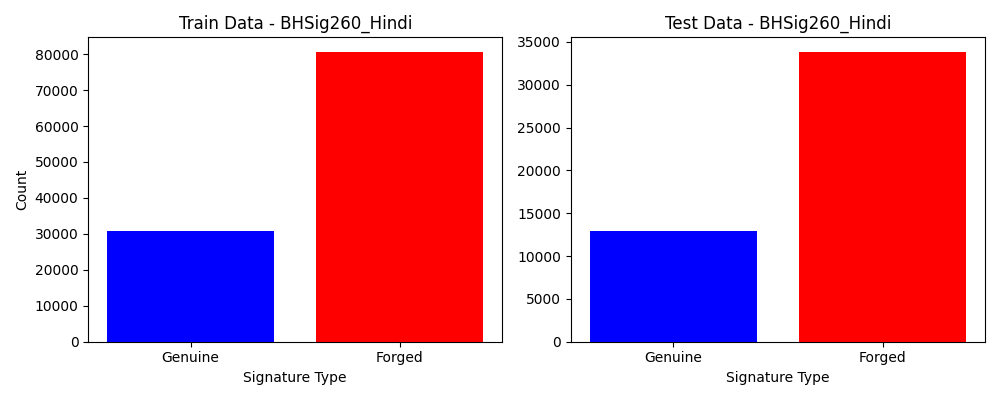
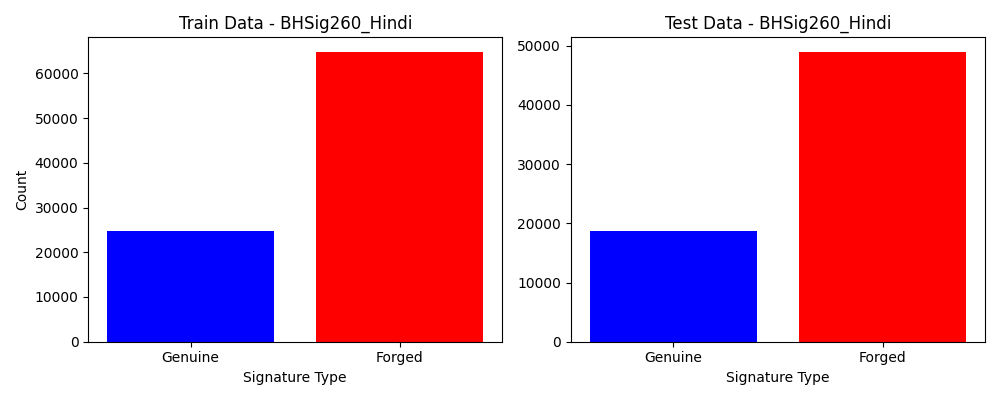
changed the number of dataset

diff --git a/enhanced.py b/enhanced.py
@@ -28,12 +28,20 @@ def triplet_loss(y_true, y_pred, alpha=0.2):
 
 # ✅ Dataset Configuration
 datasets = {
-    "CEDAR": { "path": "/Users/christelle/Downloads/Thesis/Dataset/CEDAR",
-               "train_writers": list(range(261, 300)), "test_writers": list(range(300, 315)) },
-    "BHSig260_Bengali": { "path": "/Users/christelle/Downloads/Thesis/Dataset/BHSig260_Bengali",
-                          "train_writers": list(range(1, 71)), "test_writers": list(range(71, 100)) },
-    "BHSig260_Hindi": { "path": "/Users/christelle/Downloads/Thesis/Dataset/BHSig260_Hindi",
-                        "train_writers": list(range(101, 213)), "test_writers": list(range(213, 260)) }
+    "CEDAR": { 
+        "path": "/Users/christelle/Downloads/Thesis/Dataset/CEDAR",
+        "train_writers": list(range(261, 300)), 
+        "test_writers": list(range(300, 315)) },
+
+    "BHSig260_Bengali": { 
+        "path": "/Users/christelle/Downloads/Thesis/Dataset/BHSig260_Bengali",
+        "train_writers": list(range(1, 71)), 
+        "test_writers": list(range(71, 100)) },
+
+    "BHSig260_Hindi": {
+        "path": "/Users/christelle/Downloads/Thesis/Dataset/BHSig260_Hindi",
+        "train_writers": list(range(101, 169)),
+        "test_writers": list(range(170, 260))},
 }
 
 # ✅ Apply SMOTE for Class Balancing
@@ -87,7 +95,7 @@ for dataset_name, dataset_config in datasets.items():
     model = create_siamese_network(input_shape=(155, 220, 1))
     model.compile(optimizer=RMSprop(learning_rate=0.001), loss=triplet_loss)
 
-    model.fit(train_dataset, epochs=10, verbose=1)
+    model.fit(train_dataset, epochs=5, verbose=1)
     model.save(f"{dataset_name}_siamese_model.h5")
     print(f"Model saved as {dataset_name}_siamese_model.h5")
 
@@ -122,6 +130,6 @@ test_dataset = tf.data.Dataset.from_tensor_slices(((test_X1, test_X2), test_labe
 unified_model = create_siamese_network(input_shape=(155, 220, 1))
 unified_model.compile(optimizer=RMSprop(learning_rate=0.001), loss=triplet_loss)
 
-unified_model.fit(train_dataset, epochs=10, verbose=1)
+unified_model.fit(train_dataset, epochs=5, verbose=1)
 unified_model.save("unified_siamese_model.h5")
 print("Unified model saved as unified_siamese_model.h5")

diff --git a/main.py b/main.py
@@ -21,20 +21,20 @@ def contrastive_loss(y_true, y_pred, margin=1.0):
 
 # ✅ Dataset Configuration (Same as Enhanced)
 datasets = {
-    "CEDAR": {
-        "path": "/Users/christelle/Downloads/Thesis/Dataset/CEDAR",
-        "train_writers": list(range(261, 300)),
-        "test_writers": list(range(300, 315))
-    },
-    "BHSig260_Bengali": {
-        "path": "/Users/christelle/Downloads/Thesis/Dataset/BHSig260_Bengali",
-        "train_writers": list(range(1, 71)),
-        "test_writers": list(range(71, 100))
-    },
+    # "CEDAR": {
+    #     "path": "/Users/christelle/Downloads/Thesis/Dataset/CEDAR",
+    #     "train_writers": list(range(261, 300)),
+    #     "test_writers": list(range(300, 315))
+    # },
+    # "BHSig260_Bengali": {
+    #     "path": "/Users/christelle/Downloads/Thesis/Dataset/BHSig260_Bengali",
+    #     "train_writers": list(range(1, 71)),
+    # #     "test_writers": list(range(71, 100))
+    # },
     "BHSig260_Hindi": {
         "path": "/Users/christelle/Downloads/Thesis/Dataset/BHSig260_Hindi",
-        "train_writers": list(range(101, 213)),
-        "test_writers": list(range(213, 260))
+        "train_writers": list(range(101, 169)),
+        "test_writers": list(range(170, 260))
     }
 }
 
